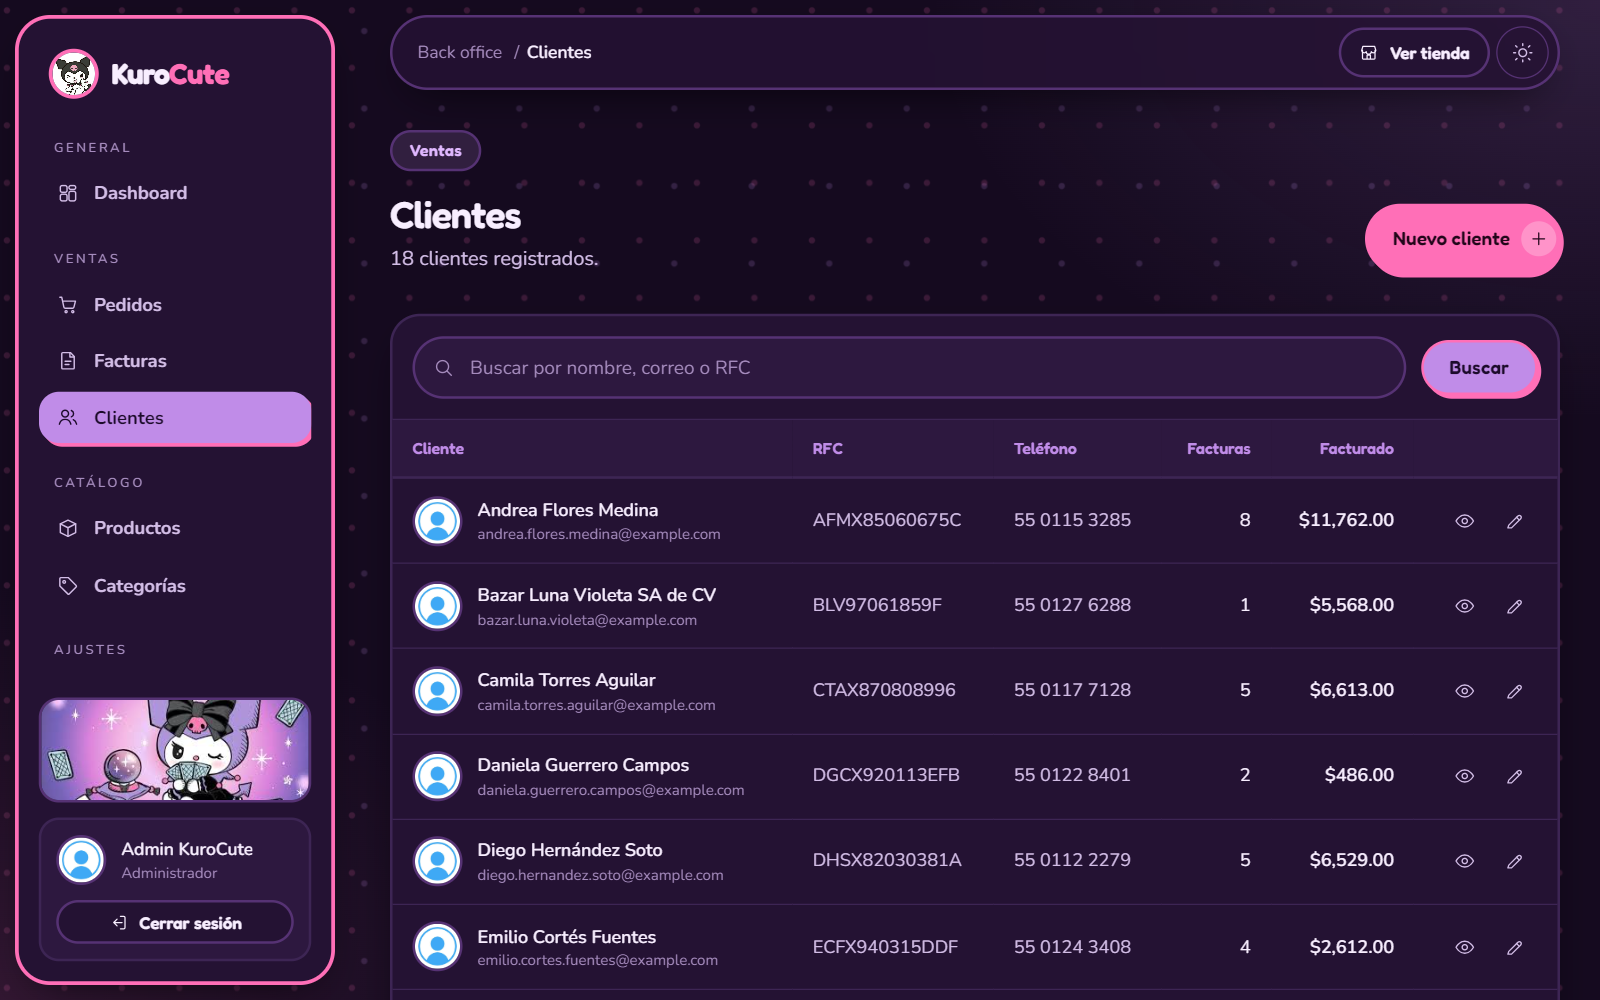
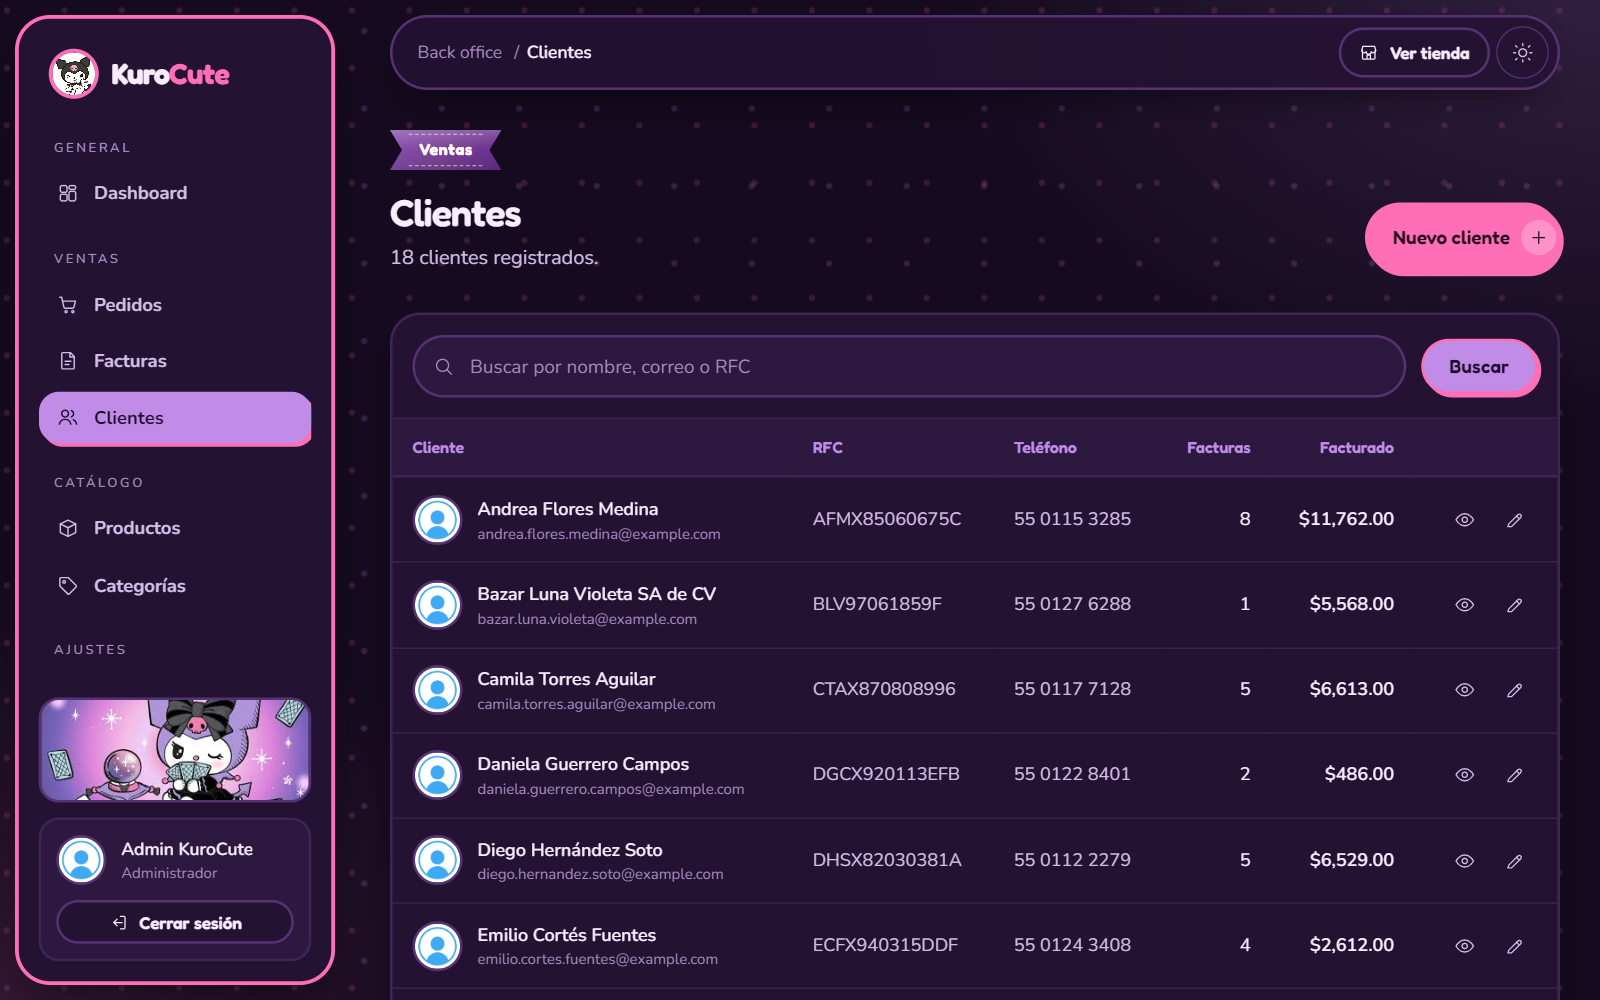
Listón y estampita en lugar de pastillas con punto
- Las etiquetas (.eyebrow) ahora son un listón de satín con puntas y costura punteada.
- Estampita de Kuromi recortada con borde blanco en el login.
- Los estados de facturas y pedidos son sellos de goma, sin el punto.
- Capturas actualizadas; 90 pruebas en verde.

diff --git a/resources/css/app.css b/resources/css/app.css
@@ -166,20 +166,49 @@
         background-size: 46px 46px, 62px 62px, auto, auto;
     }
 
+    /* Listón de satín: puntas en cola de golondrina y costura punteada.
+       Colores fijos (morado de la marca + texto blanco) para que se lea igual en claro y oscuro. */
     .eyebrow {
+        position: relative;
         display: inline-flex;
         width: fit-content;
         align-items: center;
         gap: 0.45rem;
-        border-radius: 9999px;
-        padding: 0.3rem 0.85rem;
+        padding: 0.4rem 1.45rem;
         font-family: var(--font-display);
         font-size: 0.8rem;
-        font-weight: 600;
-        letter-spacing: 0.02em;
-        color: var(--brand-strong);
-        background: var(--brand-soft);
-        border: 2px solid var(--line-strong);
+        font-weight: 700;
+        letter-spacing: 0.03em;
+        color: #fff;
+        background:
+            linear-gradient(180deg, rgb(255 255 255 / 0.22) 0%, rgb(255 255 255 / 0) 45%, rgb(0 0 0 / 0.14) 100%),
+            linear-gradient(90deg, #8a4fb0, #7b4397 50%, #6a2f8f);
+        clip-path: polygon(0 0, 100% 0, calc(100% - 0.6rem) 50%, 100% 100%, 0 100%, 0.6rem 50%);
+    }
+
+    .eyebrow::before {
+        content: '';
+        position: absolute;
+        inset: 0.2rem 0.95rem;
+        border-block: 1px dashed rgb(255 255 255 / 0.5);
+        pointer-events: none;
+    }
+
+    /* Estampita recortada (sticker con borde blanco), un poco ladeada. */
+    .estampita {
+        width: 4.75rem;
+        height: auto;
+        rotate: 9deg;
+        filter: drop-shadow(0 3px 0 var(--sticker)) drop-shadow(0 8px 14px rgb(42 24 56 / 0.25));
+        transition: rotate 200ms ease;
+    }
+
+    .estampita:hover {
+        rotate: -4deg;
+    }
+
+    @media (prefers-reduced-motion: reduce) {
+        .estampita { transition: none; }
     }
 
     /* Tarjeta tipo sticker: borde grueso y sombra desplazada. */
@@ -336,23 +365,19 @@
         color: var(--ink-2);
     }
 
+    /* Estado como sello de goma: borde del color del estado, mayúsculas y un poco ladeado. */
     .badge {
         display: inline-flex;
         align-items: center;
-        gap: 0.4rem;
-        border-radius: 9999px;
-        padding: 0.22rem 0.7rem;
-        font-size: 0.75rem;
+        border: 1.5px solid currentColor;
+        border-radius: 0.4rem;
+        padding: 0.12rem 0.5rem;
+        font-size: 0.68rem;
         font-weight: 800;
+        letter-spacing: 0.06em;
+        text-transform: uppercase;
         white-space: nowrap;
-    }
-
-    .badge::before {
-        content: '';
-        height: 0.45rem;
-        width: 0.45rem;
-        border-radius: 9999px;
-        background: currentColor;
+        rotate: -2deg;
     }
 
     .badge-ok { background: var(--ok-soft); color: var(--ok); }

diff --git a/resources/views/auth/login.blade.php b/resources/views/auth/login.blade.php
@@ -1,5 +1,8 @@
 <x-guest-layout titulo="Iniciar sesión">
-    <p class="eyebrow">Bienvenida de vuelta</p>
+    <div class="flex items-center gap-3">
+        <p class="eyebrow">Bienvenida de vuelta</p>
+        <img src="{{ asset('images/estampita-kuromi.png') }}" alt="" width="287" height="320" class="estampita -my-4">
+    </div>
     <h1 class="mt-5 font-display text-3xl font-semibold tracking-tight">Inicia sesión</h1>
     <p class="mt-2 text-ink-2">Entra al back office para gestionar pedidos, clientes y facturas.</p>
 
